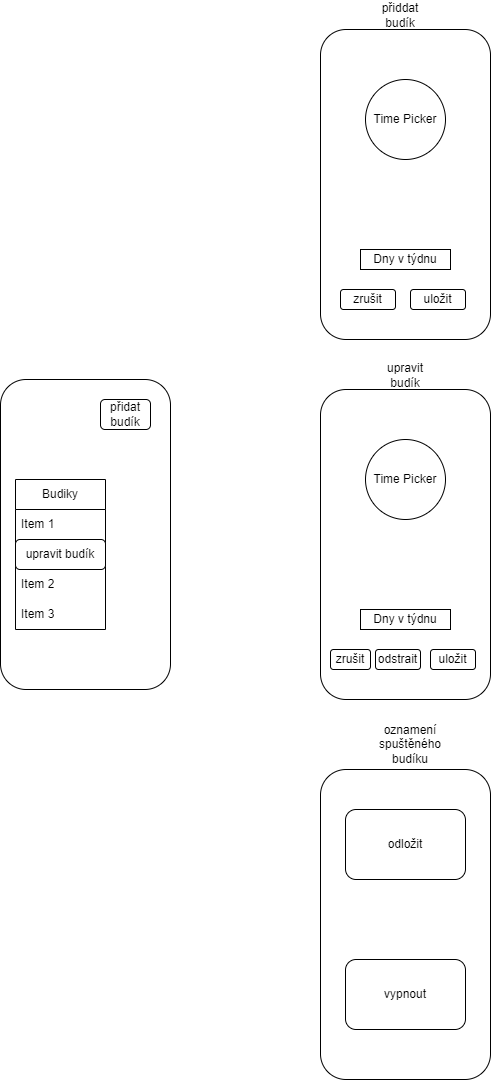
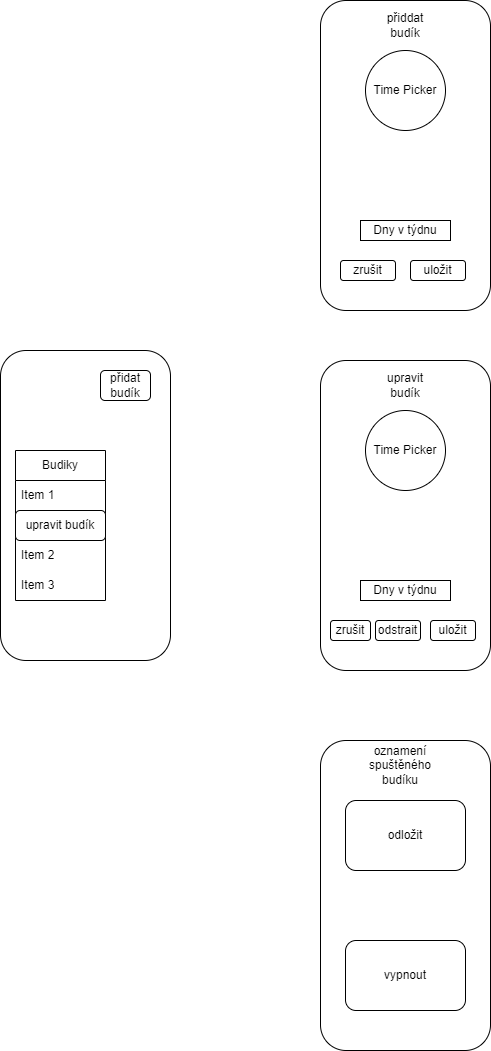
udělano obrazovky

diff --git a/README.md b/README.md
@@ -1,1 +1,3 @@
 android 14
+
+![obrazek](./wireDiagram/obrazovky.png)
